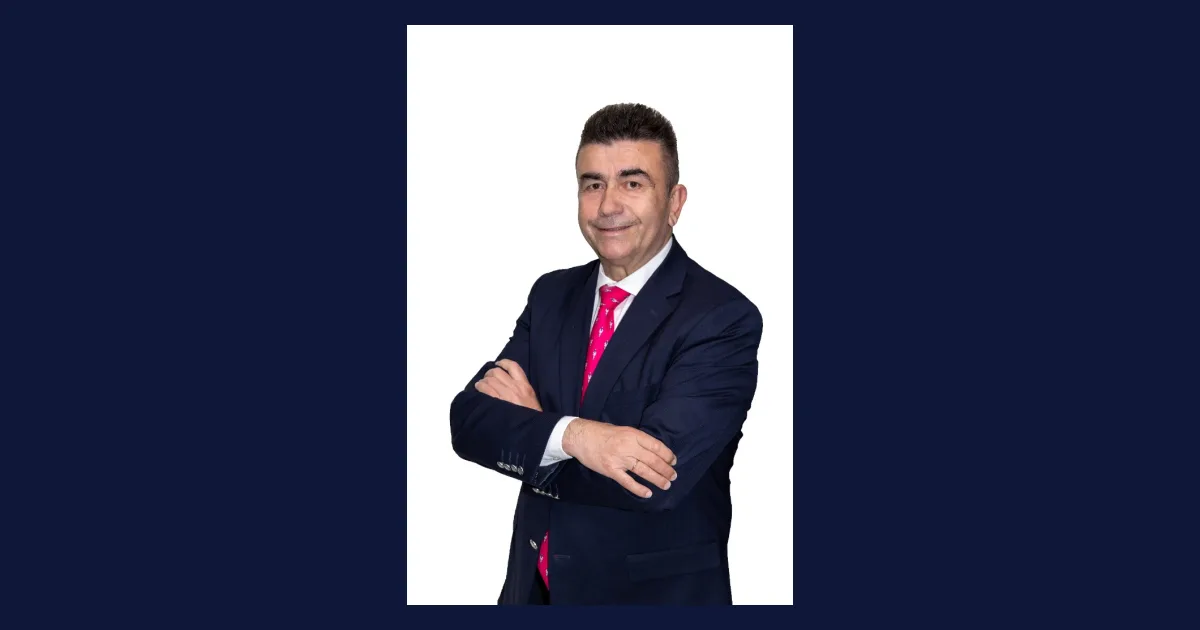
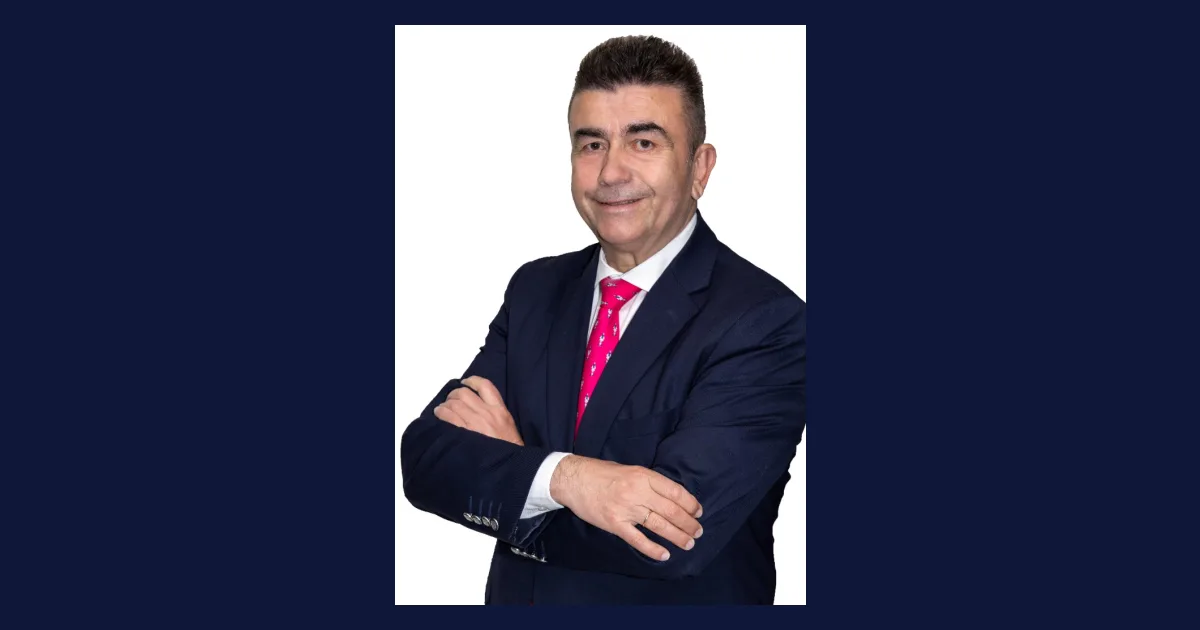
profile photo

Changed region(s): [[0.3083, 0.0302, 0.6783, 0.9651]]

diff --git a/resources/views/components/layouts/campaign.blade.php b/resources/views/components/layouts/campaign.blade.php
@@ -46,7 +46,7 @@
         .hero-grid{display:grid;grid-template-columns:1.1fr .9fr;align-items:center;gap:36px;min-height:82vh;padding:48px 0}
         .hero-kicker{color:#ff958f;text-transform:uppercase;letter-spacing:.12em;font-size:.78rem;font-weight:700;margin-bottom:12px}
         .hero h1{font-size:clamp(2.1rem,5vw,4.3rem);line-height:1.04;margin:0 0 18px;letter-spacing:-.03em;text-transform:uppercase}
-        .hero p{margin:0 0 24px;color:#d2dcff;max-width:650px}.hero-card{background:rgba(255,255,255,.09);border:1px solid rgba(255,255,255,.14);border-radius:26px;padding:18px;box-shadow:var(--shadow)} .hero-card img{border-radius:18px}
+        .hero p{margin:0 0 24px;color:#d2dcff;max-width:650px}.hero-card{background:rgba(255,255,255,.09);border:1px solid rgba(255,255,255,.14);border-radius:26px;padding:18px;box-shadow:var(--shadow)} .hero-card picture{display:block;border-radius:18px;overflow:hidden;aspect-ratio:4/5}.hero-card img{border-radius:18px;width:100%;height:100%;object-fit:cover;object-position:center 12%}
         .split{display:grid;grid-template-columns:1fr 1fr;gap:28px;align-items:center}.img-wrap{border-radius:var(--radius);overflow:hidden;box-shadow:var(--shadow)}
         .timeline{display:grid;gap:18px;position:relative}.timeline-item{background:#fff;border:1px solid #edf0fb;border-radius:18px;padding:22px;box-shadow:var(--shadow)}
         .timeline-item .n{display:inline-flex;align-items:center;justify-content:center;width:34px;height:34px;border-radius:999px;background:#324fb3;color:#fff;font-weight:700;font-size:.9rem;margin-bottom:10px}
@@ -58,7 +58,7 @@
         .card{background:#fff;border-radius:var(--radius);box-shadow:var(--shadow);padding:30px;border:1px solid #edf0fb}
         .content{color:var(--muted);font-size:1.05rem}.content p{margin:0 0 18px}
         footer{background:#0e1635;color:#d8def8;padding:34px 0;margin-top:70px}.foot{display:flex;justify-content:space-between;gap:18px;flex-wrap:wrap;font-size:.95rem}
-        @media (max-width: 980px){.hero-grid,.split{grid-template-columns:1fr}.form{grid-template-columns:1fr}.menu{display:none}.menu-toggle{display:inline-flex}}
+        @media (max-width: 980px){.hero-grid,.split{grid-template-columns:1fr}.form{grid-template-columns:1fr}.menu{display:none}.menu-toggle{display:inline-flex}.hero-card{max-width:420px;margin-inline:auto}.hero-card picture{aspect-ratio:3/4}}
     </style>
 </head>
 <body>

diff --git a/resources/views/modules/pages/home.blade.php b/resources/views/modules/pages/home.blade.php
@@ -47,7 +47,7 @@
       <div class="hero-card">
         <picture>
           <source srcset="{{ asset('images/gkellis-hero-20260505.webp') }}" type="image/webp">
-          <img src="{{ asset('images/gkellis-hero-20260505.jpg') }}" alt="Γιώργος Κέλλης" width="599" height="900" loading="eager" fetchpriority="high" decoding="async">
+          <img src="{{ asset('images/gkellis-hero-20260505.jpg') }}" alt="Γιώργος Κέλλης" width="638" height="900" loading="eager" fetchpriority="high" decoding="async">
         </picture>
       </div>
     </div>

diff --git a/resources/views/modules/pages/biography.blade.php b/resources/views/modules/pages/biography.blade.php
@@ -67,7 +67,7 @@
           <img
             src="{{ asset('images/gkellis-hero-20260505.jpg') }}"
             alt="Γιώργος Κέλλης"
-            width="599"
+            width="638"
             height="900"
             loading="eager"
             fetchpriority="high"
